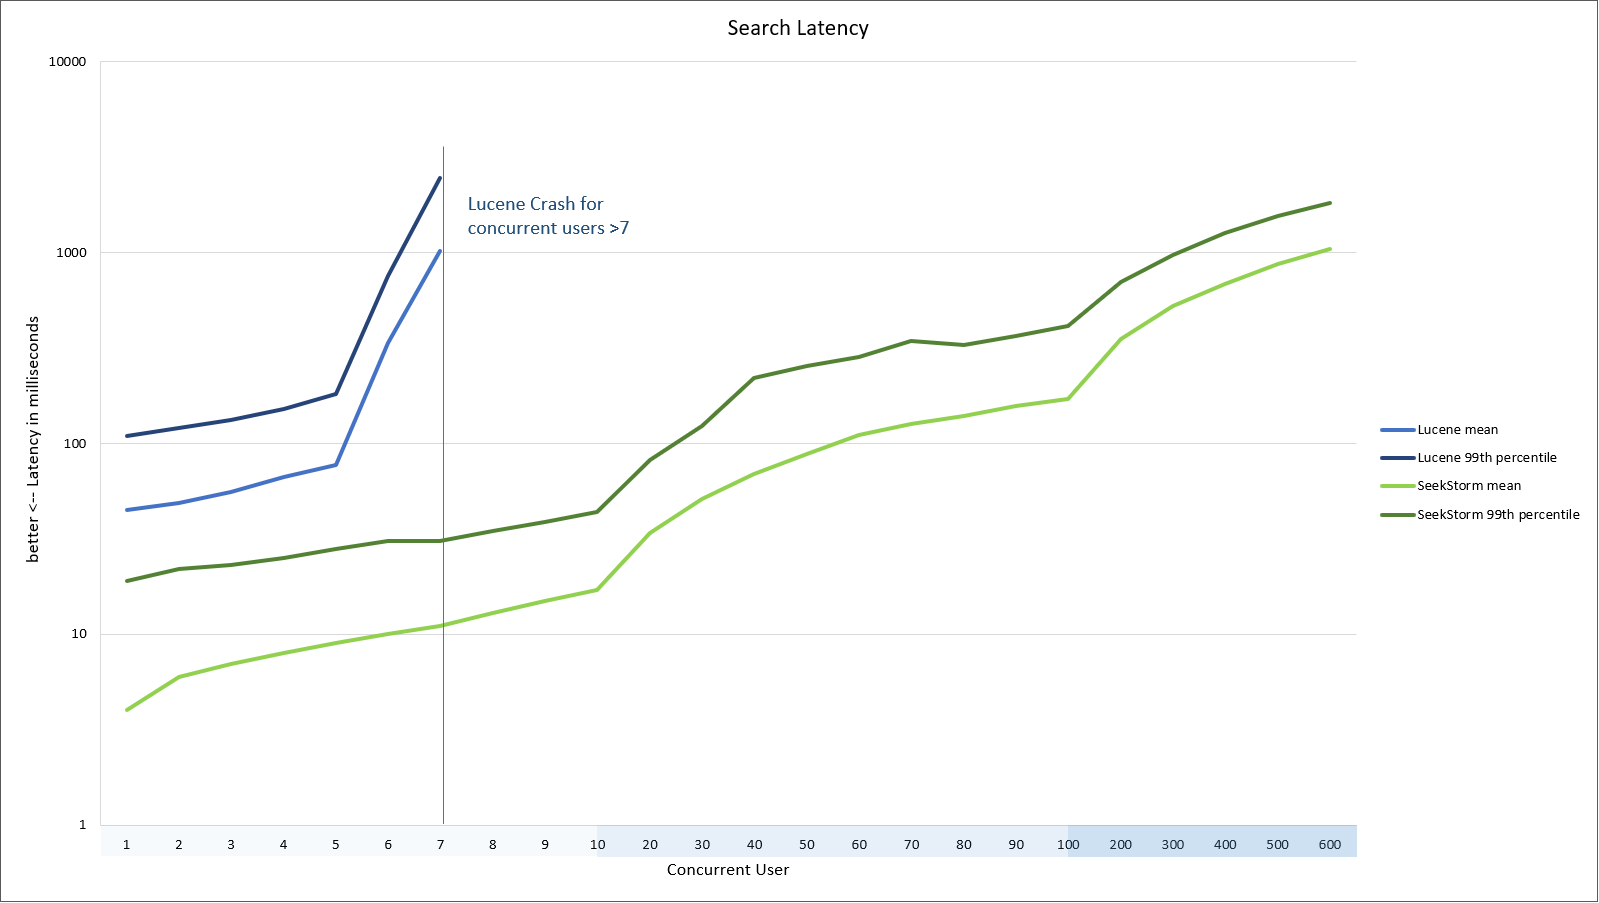
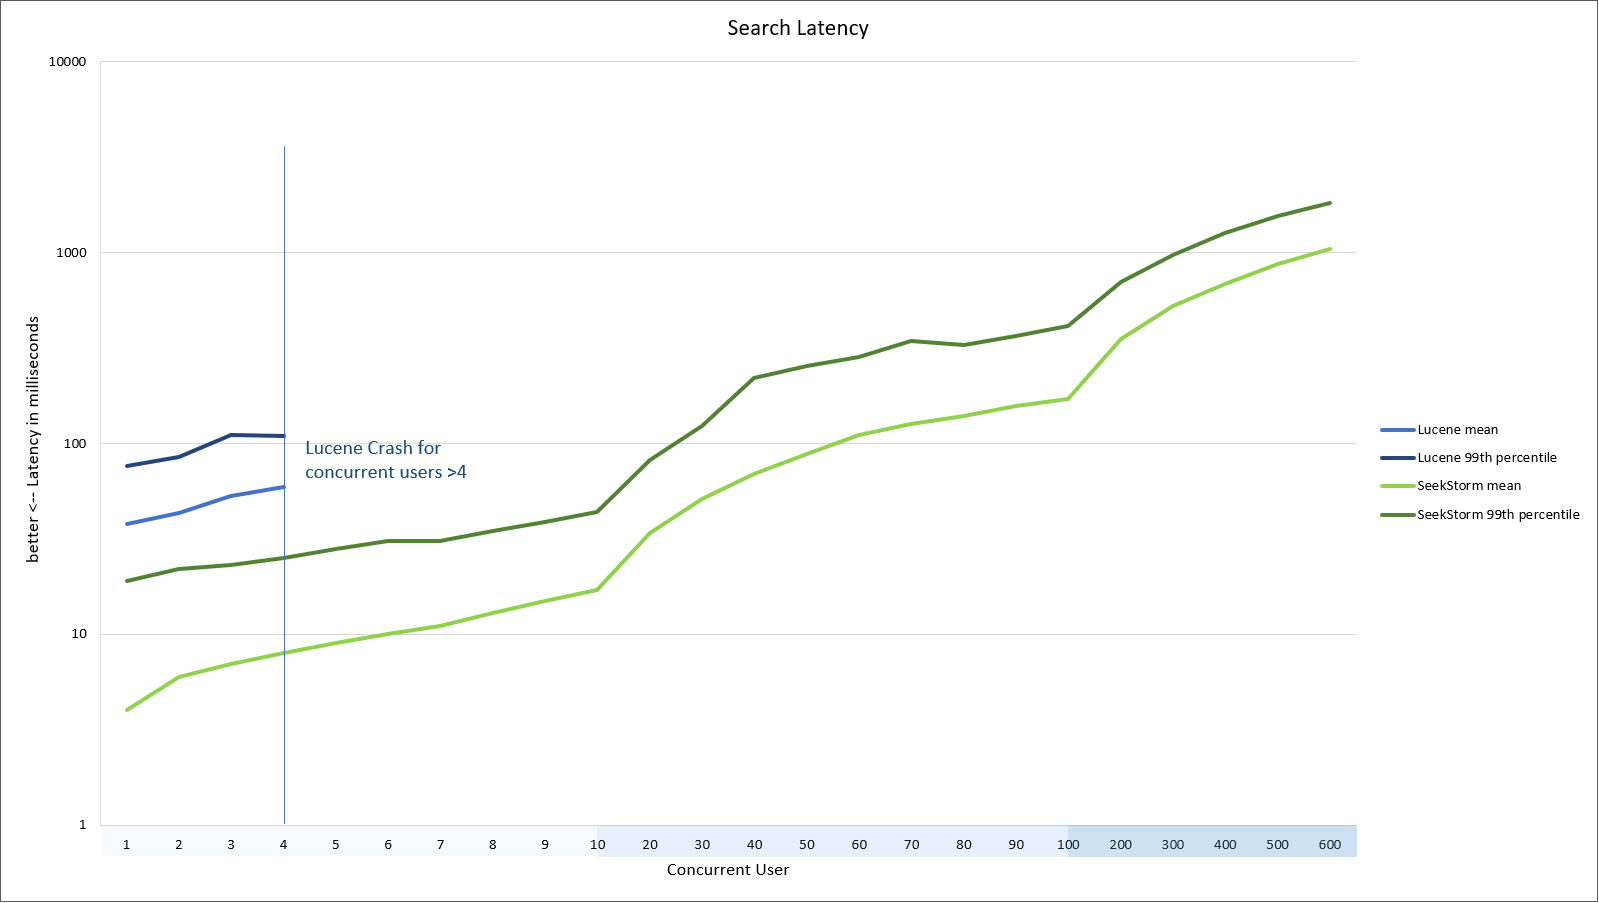
charts updated

Changed region(s): [[0.0919, 0.2171, 0.3677, 0.5271], [0.1226, 0.5271, 0.1839, 0.5581], [0.0613, 0.5581, 0.1226, 0.5891]]

diff --git a/LuceneBench/src/LuceneCore.java b/LuceneBench/src/LuceneCore.java
@@ -1,5 +1,6 @@
 
-import org.apache.lucene.analysis.standard.StandardAnalyzer;
+//import org.apache.lucene.analysis.standard.StandardAnalyzer;
+import org.apache.lucene.analysis.core.SimpleAnalyzer;
 import org.apache.lucene.document.Document;
 import org.apache.lucene.document.Field;
 import org.apache.lucene.index.IndexWriter;
@@ -14,7 +15,7 @@ import org.apache.lucene.document.TextField;
 import org.apache.lucene.document.StoredField;
 import org.apache.lucene.search.highlight.Highlighter;
 import org.apache.lucene.search.highlight.QueryScorer;
-import org.apache.lucene.analysis.TokenStream;
+//import org.apache.lucene.analysis.TokenStream;
 
 import java.nio.file.Paths;
 
@@ -25,7 +26,8 @@ public class LuceneCore
 
 	// Specify the analyzer for tokenizing text.
 	// The same analyzer should be used for indexing and searching
-	StandardAnalyzer analyzer;
+	//StandardAnalyzer analyzer;
+	SimpleAnalyzer analyzer;
 
 	// Writing object, linked to the repository
 	IndexWriter writer = null;
@@ -40,7 +42,8 @@ public class LuceneCore
 
 	LuceneCore() {
 		// Instantiate the analyzer
-		analyzer = new StandardAnalyzer();
+		//analyzer = new StandardAnalyzer();
+		analyzer = new SimpleAnalyzer();
 
 		// Define document and fields
 		/*
@@ -83,6 +86,7 @@ public class LuceneCore
 			// Instantiate a query parser
 			//QueryParser parser = new QueryParser( "content", analyzer);
 			MultiFieldQueryParser parser = new MultiFieldQueryParser(new String[]{"title", "content","domain","url"},analyzer);
+			parser.setDefaultOperator(parser.AND_OPERATOR);
 
 			// Parse
 			Query q = parser.parse(querystr);
@@ -105,6 +109,9 @@ public class LuceneCore
 			ScoreDoc[] hits = topDocs.scoreDocs;
 			//totalHits=topDocs.totalHits;
 			totalHits=(long)hits.length;
+
+			//testonly
+			//System.out.println("query: "+querystr + " " + hits.length+" "+String.format("%,d",topDocs.totalHits));
 
 			Highlighter highlighter = new Highlighter(new QueryScorer(q));		
 

diff --git a/LuceneBench/src/LuceneBenchmark.java b/LuceneBench/src/LuceneBenchmark.java
@@ -15,7 +15,7 @@ public class LuceneBenchmark
 {
     //true: index and search
     //false: search only in existing index
-    public static Boolean newindex=false;
+    public static Boolean newindex=true;
 
     public static int querySize = 40000;
 
@@ -143,11 +143,20 @@ public class LuceneBenchmark
             String.format("%,d",indexedDocCount * 1000 * 3600 * 24 / millis) + " (" + String.format("%,d",linecount / 5 * 1000 * 3600 * 24 / millis) + 
             ")" + " GB/hour: " + (filesize * 1000 * 3600 / millis / 1024 / 1024 / 1024)+"  minutes: "+ 
             (millis/(long)60000));
-
-            System.out.println("availablePermits: "+indexSemaphore.availablePermits());
         }
 
         //--------------------------
+
+        
+        //testonly
+        /*
+        LuceneBenchmark.lucene.search("the");  
+        LuceneBenchmark.lucene.search("who");  
+        LuceneBenchmark.lucene.search("the who");  
+        LuceneBenchmark.lucene.search("\"the who\"");  
+        if (true) return;
+        */
+        
    
         // Search
         LoadQueries("C:/data/09.mq.topics.20001-60000.txt");
@@ -155,7 +164,7 @@ public class LuceneBenchmark
         //warmup
         LuceneBenchmark.lucene.search("test");  
 
-        for (int concurrentUsers=1;concurrentUsers<=10;concurrentUsers++) 
+        for (int concurrentUsers=1;concurrentUsers<=4;concurrentUsers++) //1..10
         {
             int maxSearchThreads=concurrentUsers;
             ExecutorService searchExecutor = Executors.newFixedThreadPool(maxSearchThreads);
